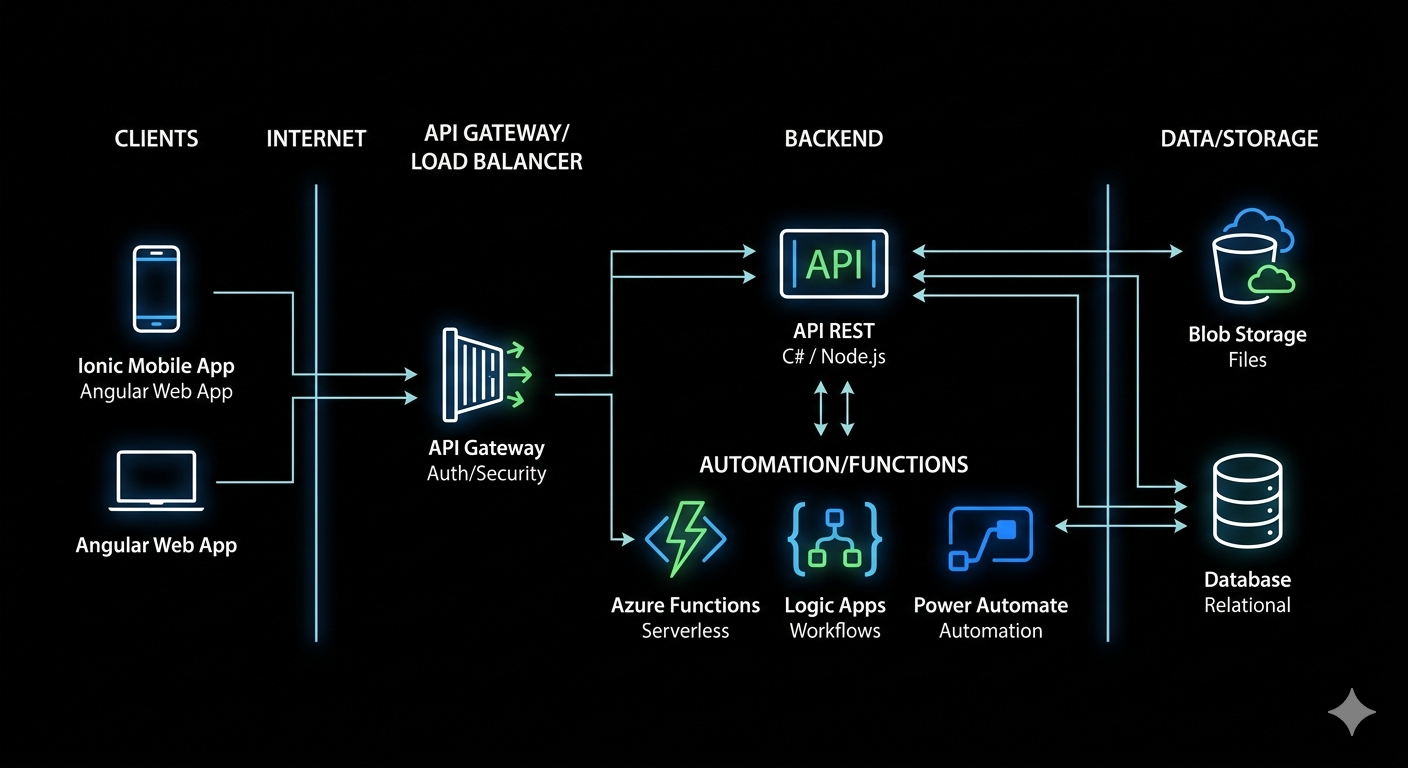
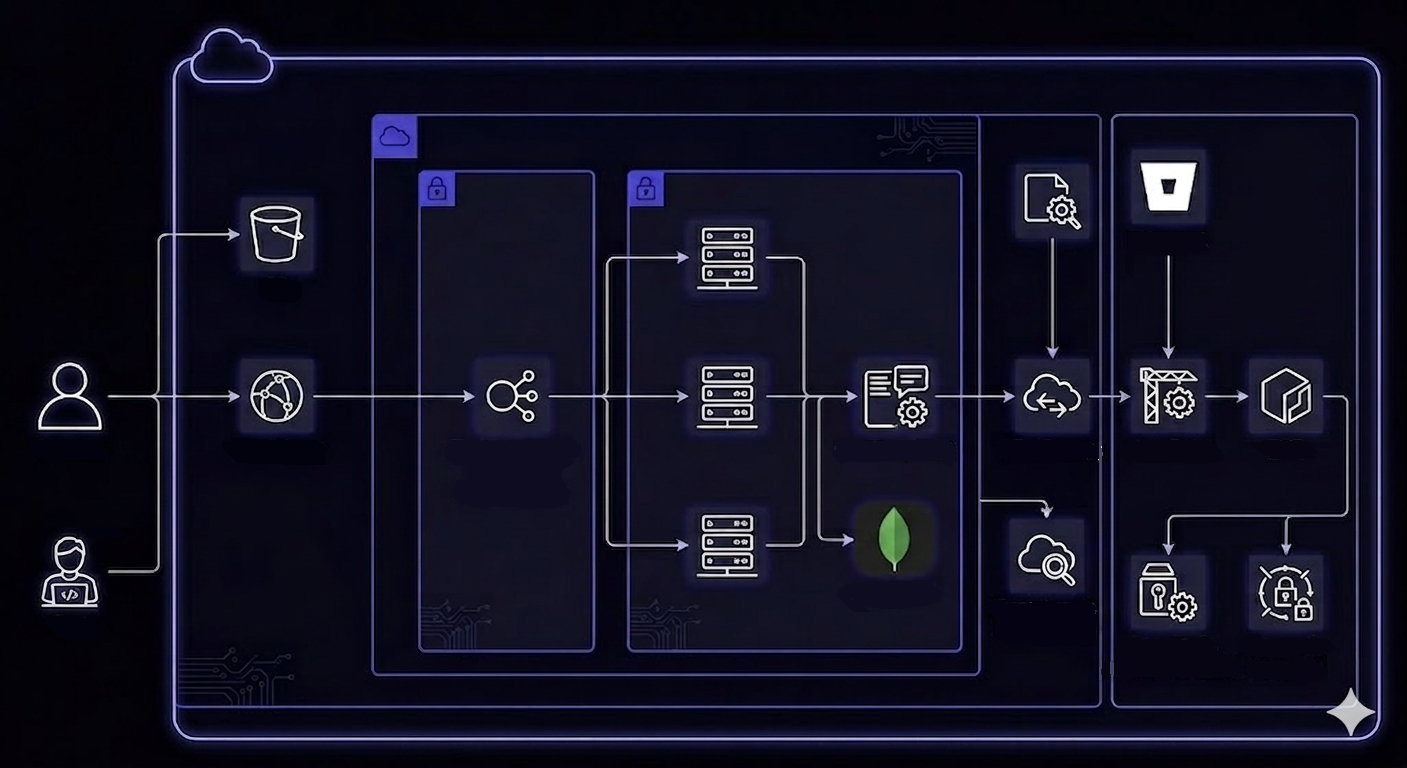
portafolio

diff --git a/index.html b/index.html
@@ -833,6 +833,7 @@ const DATA = {
         { name:"Blob Storage",        icon:'', level:100 },
         { name:"Application Insights",icon:'', level:100 },
         { name:"Azure Pipelines",icon:'',       level:100 },
+        { name:"Azure Artifacts",icon:'',       level:100 },
       ]
     },
     {
@@ -887,62 +888,91 @@ const DATA = {
 
   projects: [
     {
-      title:"Plataformas empresariales",
+      title:"Desarrollo de plataformas corporativas",
       image:"images/projects01.png",
-      tags:["Angular",".Net Core","NodeJs","Sql Server","Azure Functions", "Power Automate", "Blob Storage"],
-      desc:"Desarrollo de múltiples soluciones empresariales incluyendo plataformas web, aplicaciones móviles y arquitecturas serverless. Incluye sistemas para gestión de becas, voluntariados y digitalización de procesos internos como legalización de gastos."
+      tags:["Angular",".Net Core","NodeJs","Sql Server","Azure Functions", "Azure Logic Apps", "Power Automate", "Blob Storage"],
+      desc:"Participación en el desarrollo y evolución de múltiples soluciones empresariales orientadas a optimizar procesos internos, incluyendo plataformas web y flujos automatizados en la nube. <br> <br> La solución abarcó el desarrollo de APIs REST con .NET y Node.js, junto con interfaces web en Angula. <br> <br> Se integraron servicios serverless en Azure, como Functions, Logic Apps y Power Automate."
     },
     {
-      title:"Plataforma de cotización logística", 
+      title:"Plataforma de cotización de servicios de shipping", 
       image:"images/projects02.png",
-      tags:["Angular",".Net Core","NodeJs","Azure API Management","Azure Logic Apps"],
-      desc:"Sistema centralizado para la gestión y comparación de proveedores logísticos, permitiendo generar cotizaciones de transporte de forma rápida y eficiente."
+      tags:["Angular",".Net Core","Azure API Management","Azure Logic Apps"],
+      desc:"Desarrollo de una solución orientada a centralizar y optimizar el proceso de cotización de servicios logísticos, integrando múltiples proveedores en una única plataforma para facilitar la comparación y selección de opciones de transporte. <br> <br> La arquitectura se construyó sobre APIs REST en .NET Core, complementadas con un frontend en Angular para la visualización y gestión de cotizaciones. Se incorporaron capacidades de integración y orquestación mediante Azure Logic Apps, permitiendo automatizar flujos entre distintos servicios externos, mientras que Azure API Management se utilizó para exponer y gobernar los servicios de forma controlada. <br> <br> El resultado es una plataforma más eficiente y escalable, que reduce significativamente los tiempos de generación de cotizaciones y mejora la toma de decisiones al consolidar múltiples fuentes de información en un solo sistema."
     },
     {
       title:"Plataforma de gestión y monitoreo de energías renovables", 
       image:"images/projects02.png",
       tags:["React","Node.js","Socket.io","PostgreSQL"],
-      desc:"Diseño y desarrollo end-to-end de una solución para la gestión y monitoreo de recursos energéticos, orientada a optimizar la operación y facilitar la toma de decisiones en un entorno enfocado en sostenibilidad. La plataforma fue construida desde cero, definiendo la arquitectura backend con APIs REST en Spring Boot y desarrollando una interfaz frontend en Angular orientada a la visualización eficiente de información. Se integraron mecanismos de seguridad mediante Keycloak, garantizando autenticación y autorización seguras para el acceso a la plataforma. El resultado es una solución escalable y extensible, preparada para la incorporación de nuevos módulos y capaz de soportar la evolución del negocio en un contexto internacional."
+      desc:"Diseño y desarrollo end-to-end de una solución para la gestión y monitoreo de recursos energéticos, orientada a optimizar la operación y facilitar la toma de decisiones. <br> <br> La plataforma fue construida desde cero, definiendo la arquitectura backend con APIs REST en Spring Boot y desarrollando una interfaz frontend en Angular. Se integraron mecanismos de seguridad mediante Keycloak, garantizando autenticación y autorización para el acceso a la plataforma. <br> <br> El resultado es una solución escalable y extensible, preparada para la incorporación de nuevos módulos y capaz de soportar la evolución del negocio."
     },
     {
-      title:"Analytics Dashboard", 
+      title:"Plataforma de e-commerce integrada con funcionalidades sociales", 
       image:"images/projects02.png",
-      tags:["Angular","Python","FastAPI","Redis"],
-      desc:"Dashboard analítico con visualizaciones interactivas, caché Redis y exportación de reportes a PDF y Excel."
+      tags:["Angular","Springboot","Java","Keycloak","Azure Functions"],
+      desc:"Desarrollo de una solución que combina la gestión de ventas en línea con capacidades de interacción social, orientada a mejorar la experiencia del usuario y fortalecer la relación con los clientes dentro de la plataforma. <br> <br> La arquitectura se basó en APIs REST construidas con Spring Boot, junto con un frontend en Angular.  <br> <br> La solución integró plataformas externas como Vtex y RD Station, permitiendo conectar procesos de venta, marketing y comunicación en un mismo ecosistema.  <br> <br> Se incorporaron capacidades cloud mediante Azure Functions para procesos desacoplados, así como mecanismos de seguridad con Keycloak y estrategias de pruebas unitarias que contribuyeron a la estabilidad y rendimiento del sistema"
+    },
+    {
+      title:"Sistema POS y plataforma integral de gestión (inventarios, pedidos y CRM)", 
+      image:"images/projects02.png",
+      tags:["Angular","Springboot","Java","Keycloak","JavaFX","RabbitMQ","SQL / NoSQL"],
+      desc:"Desarrollo de una solución empresarial que centraliza la operación de ventas, inventarios y gestión de clientes, integrando múltiples componentes en una arquitectura distribuida orientada a rendimiento y escalabilidad. <br> <br> La plataforma combina un backend basado en APIs REST con Spring Boot, un frontend web en Angular y una aplicación de escritorio en JavaFX, cubriendo distintos contextos de uso dentro del negocio. <br> <br> La comunicación entre componentes se soporta mediante mensajería asíncrona con RabbitMQ, permitiendo desacoplar procesos y mejorar la eficiencia operativa.<br> <br> Se implementaron mecanismos de seguridad con Keycloak y se gestionaron tanto bases de datos relacionales como NoSQL, optimizando el acceso y la consistencia de la información. La solución fue diseñada con un enfoque en calidad, incorporando pruebas unitarias y mejoras continuas en la experiencia de usuario."
+    },
+    {
+      title:"Sistema de microservicios para gestión de preavisados y reservas", 
+      image:"images/projects02.png",
+      tags:[".NET Core","Arquitectura Hexagonal","Azure Blob Storage","Application Insights"],
+      desc:"Diseño y desarrollo de una arquitectura backend basada en microservicios, orientada a la gestión eficiente de preavisos y reservas dentro de un entorno empresarial con alta necesidad de escalabilidad y mantenibilidad. <br> <br> La solución fue construida bajo principios de arquitectura hexagonal. Se integraron servicios de almacenamiento en la nube mediante Azure Blob Storage y herramientas de monitoreo como Application Insight. <br> <br> El enfoque en calidad se reforzó mediante la implementación de pruebas unitarias.<br> <br> El resultado es una plataforma modular y escalable que mejora la confiabilidad de las operaciones y optimiza la gestión de información en tiempo real."
+    },
+    {
+      title:"Plataforma de gestión y visualización de datos maestros", 
+      image:"images/projects02.png",
+      tags:[".NET Core","Angular","Azure Pipelines","Azure Artifacts"],
+      desc:"Desarrollo de un portal orientado a centralizar y gestionar el Golden Record, permitiendo la consolidación y visualización de datos críticos del negocio para mejorar la precisión y consistencia de la información. <br> <br> La solución se construyó sobre un backend en .NET y un frontend en Angular. <br> <br> Se incorporaron prácticas de aseguramiento de calidad mediante pruebas unitarias, junto con la automatización de procesos de integración y despliegue continuo utilizando Azure Pipelines y gestión de dependencias con Azure Artifacts. <br> <br> El resultado es una plataforma que fortalece la calidad y confiabilidad de los datos, facilitando la toma de decisiones y asegurando la integridad de la información dentro de la organización."
+    },
+    {
+      title:"Plataforma de gestión de identidad y control de accesos", 
+      image:"images/projects02.png",
+      tags:["Java","Spring Boot","Spring Security","Keycloak","Angular","JavaFX"],
+      desc:"Liderazgo técnico y desarrollo de una solución integral de seguridad orientada a la autenticación y autorización de usuarios en aplicaciones críticas, fortaleciendo los mecanismos de control de acceso dentro de la organización. <br> <br> La plataforma se diseñó bajo un enfoque centralizado de identidad, implementando flujos de autenticación y autorización con Keycloak y Spring Security, integrados sobre un backend en Spring Boot. <br> <br> La solución abarcó múltiples canales, incluyendo aplicaciones web en Angular y aplicaciones de escritorio en JavaFX, garantizando consistencia en los mecanismos de seguridad a lo largo del ecosistema. <br> <br> Desde el rol de liderazgo técnico, se definieron lineamientos de arquitectura, estándares de calidad y prácticas de desarrollo, además de acompañar la adopción del sistema mediante capacitación a usuarios y equipos técnicos."
+    },
+    {
+      title:"Plataformas bancarias", 
+      image:"images/projects02.png",
+      tags:["Java","Spring Boot",".NET","Angular","OAuth2", "SQL"],
+      desc:"Desarrollo de soluciones de software orientadas al sector financiero, enfocadas en la construcción de APIs robustas y plataformas integrales que soportan operaciones críticas del negocio. <br> <br> Participé en la implementación de arquitecturas seguras, integrando mecanismos avanzados de autenticación y autorización (OAuth2, OIDC, JWT). <br> <br> Las soluciones combinan backend en Java y .NET con interfaces modernas en Angular y React. <br> <br> El trabajo en equipos ágiles y entornos bilingües permitió entregar productos alineados con estándares de calidad, escalabilidad y mantenibilidad requeridos en el sector financiero."
     },
   ],
 
   experience: [
     {
-      date:"2023 — Presente",
-      company:"Nombre de la empresa",
-      logoText:"EMP",
-      role:"Senior Full Stack Developer",
-      desc:"Desarrollo de plataformas web de alto tráfico. Liderazgo técnico de un equipo de 5 personas. Implementación de arquitectura de microservicios y mejora del 40% en tiempo de respuesta.",
-      tags:["Java","Angular","Spring Boot","AWS","Docker"]
+      date:"2024 — Presente",
+      company:"TCS",
+      logoText:"👜",
+      role:"Ingeniera Full Stack Developer",
+      desc:"Desarrollo integral de soluciones de software empresariales. Trabajo en equipos ágiles multidisciplinarios, integrando seguridad, escalabilidad y buenas prácticas de arquitectura para garantizar productos de alta calidad en un entorno bilingüe.",
+      tags:["Java","C#","Javascript"]
     },
     {
-      date:"2021 — 2023",
-      company:"Otra empresa",
-      logoText:"OTR",
+      date:"2024 — 2025",
+      company:"Scotiabank",
+      logoText:"👜",
       role:"Full Stack Developer",
-      desc:"Construcción de APIs REST y aplicaciones web con React y Node.js. Integración con pasarelas de pago y servicios de terceros. Trabajo en equipo Scrum.",
-      tags:["Node.js","React","MongoDB","Docker"]
+      desc:"Desarrollo integral de soluciones de software empresariales. Trabajo en equipos ágiles multidisciplinarios, integrando seguridad, escalabilidad y buenas prácticas de arquitectura para garantizar productos de alta calidad en un entorno bilingüe.",
+      tags:["Java","C#",".NetCore","SqlServer","Primefaces"]
     },
     {
-      date:"2020 — 2021",
-      company:"Startup / Freelance",
-      logoText:"FRL",
-      role:"Junior Developer",
-      desc:"Desarrollo de sitios web corporativos, landing pages e integración de APIs. Aprendizaje acelerado de metodologías ágiles y buenas prácticas de desarrollo.",
-      tags:["JavaScript","HTML/CSS","PHP","MySQL"]
+      date:"2020 — 2024",
+      company:"BPT",
+      logoText:"👜",
+      role:"Analista Full Stack Developer",
+      desc:"Desarrollo integral de aplicaciones a lo largo de todo el ciclo de vida del software utilizando metodologías ágiles, con comunicación directa con el cliente para la resolución de requerimientos. Participación en la demostración de soluciones a clientes y posibles clientes, abordando aspectos técnicos.",
+      tags:["Java","C#","Javascript","NodeJs","Angular",".NetCore","Azure","Sql","NoSql","MongoDb"]
     },
   ],
 
   education: [
-    { icon:"bi-mortarboard-fill", degree:"Ingeniería de Sistemas", school:"Universidad de tu ciudad", year:"2016 — 2021" },
-    { icon:"bi-patch-check-fill", degree:"AWS Certified Developer", school:"Amazon Web Services", year:"2023" },
-    { icon:"bi-code-slash",       degree:"Full Stack Bootcamp",     school:"Nombre del bootcamp",    year:"2020" },
+    { icon:"bi-mortarboard-fill", degree:"Ingeniería de Sistemas", school:"Universidad de Antioquia", year:"2017 — 2025" },
+    { icon:"bi-patch-check-fill", degree:"Técnica profesional en soporte de sistemas de información", school:"Politécnico Colombiano Jaime Isaza Cadavid", year:"2015 - 2017" },
   ],
 
   theory: [
@@ -1012,12 +1042,6 @@ DATA.projects.forEach((p,pi)=>{
   const d=document.createElement('div');
   d.className='proj-card reveal'; d.style.transitionDelay=pi*.1+'s';
   d.innerHTML=`
-    <div class="proj-thumb">
-      <div class="proj-grad"></div>
-      <div class="proj-image">
-        <img src="${p.image}" alt="${p.title}" />
-      </div>
-    </div>
     <div class="proj-body">
       <div class="proj-tags">${p.tags.map(t=>`<span class="tag-chip">${t}</span>`).join('')}</div>
       <h3 class="proj-title-card">${p.title}</h3>
